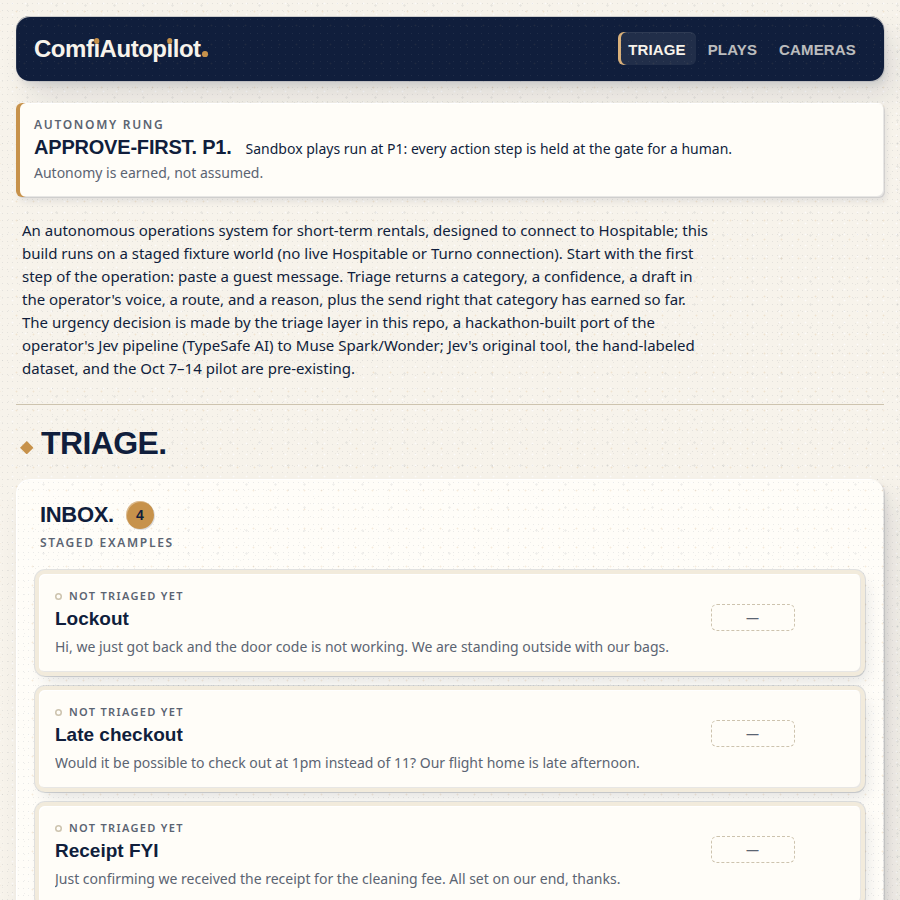
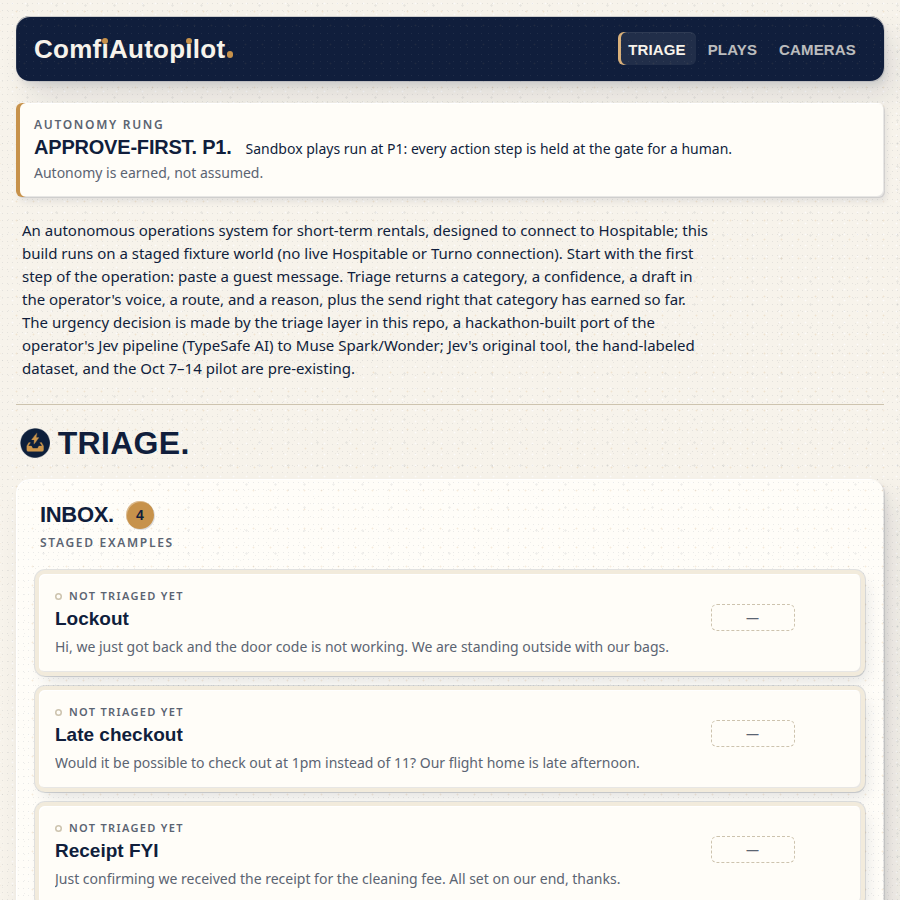
design: typography swap — Big Shoulders Display + IBM Plex Sans
Gus's pick after the ChatGPT pairing round and four 8-font sheets:
Pairing 1. Gabarito + Instrument Sans retired as too plain. Display
tracking loosened (-.02em to .01em) for the condensed face, section
titles and confidence numerals to 900, wordmark up 2px. Dotless-i
wordmark verified live in Big Shoulders. 285 tests passing.

Changed region(s): [[0.0, 0.4667, 0.2178, 0.5289], [0.0311, 0.0311, 0.2489, 0.0622]]

diff --git a/sandbox/index.html b/sandbox/index.html
@@ -6,12 +6,12 @@
 <link rel="preconnect" href="https://fonts.gstatic.com" crossorigin>
 <!-- Loaded without blocking render: if the font CDN is unreachable, the fallback stacks carry the layout. -->
 <link rel="stylesheet" media="print" onload="this.media='all'"
-      href="https://fonts.googleapis.com/css2?family=Gabarito:wght@500;600;700;800&amp;family=Instrument+Sans:wght@400;500;600;700&amp;display=swap">
+      href="https://fonts.googleapis.com/css2?family=Big+Shoulders+Display:wght@500;600;700;800;900&amp;family=IBM+Plex+Sans:wght@400;500;600;700&amp;display=swap">
 <style>
   /* ---- tokens (design/spec-v2.md, over design/spec.md) ------------ */
   :root {
-    --font-display: "Gabarito", "Arial", sans-serif;
-    --font-text: "Instrument Sans", system-ui, sans-serif;
+    --font-display: "Big Shoulders Display", "Arial Narrow", sans-serif;
+    --font-text: "IBM Plex Sans", system-ui, sans-serif;
     --fs-h1: 40px; --fs-sec: 40px; --fs-h2: 24px; --fs-h3: 20px;
     --fs-body: 16px; --lh-body: 24px; --fs-small: 14px; --fs-caption: 12px;
 
@@ -111,7 +111,7 @@
           box-shadow: inset 1px 1px 0 rgba(247,243,235,.10), inset -1px -1px 0 rgba(0,0,0,.25), var(--pressed); }
   .rail :focus-visible { outline-color: var(--cream); }
   .rail-top { display: grid; gap: 40px; }
-  .wordmark { padding: 0 10px; font: 800 24px/1 var(--font-display); letter-spacing: -.02em; white-space: nowrap; }
+  .wordmark { padding: 0 10px; font: 800 26px/1 var(--font-display); letter-spacing: .01em; white-space: nowrap; }
   .wordmark .dot { display: inline-block; width: .24em; height: .24em; margin-left: .05em;
                    border-radius: var(--r-round); background: var(--amber); }
   /* wordmark lockup: dotless i stems with amber tittles (Gus, Oct 28) */
@@ -122,7 +122,7 @@
   .wm .dot { display: inline-block; width: .24em; height: .24em; margin-left: .05em;
              border-radius: var(--r-round); background: var(--amber); }
   .masthead-mark { font-family: var(--font-display); font-weight: 800; line-height: 1;
-                   letter-spacing: -.02em; color: var(--ink); }
+                   letter-spacing: .01em; color: var(--ink); }
   .railnav { display: grid; gap: 6px; margin: 0; padding: 0; list-style: none; }
   .railnav a { display: flex; align-items: baseline; gap: 12px; padding: 13px 12px 11px; border-radius: var(--r-sm);
                color: var(--cream); text-decoration: none; opacity: .74;
@@ -156,7 +156,7 @@
   .triage, .plays, .cams { display: grid; gap: 20px; min-width: 0; }
   .sec-head { display: flex; flex-wrap: wrap; align-items: baseline; justify-content: space-between;
               gap: 6px 24px; padding: 0 4px; }
-  .sec-title { font: 800 var(--fs-sec)/1 var(--font-display); letter-spacing: -.02em; }
+  .sec-title { font: 900 var(--fs-sec)/1 var(--font-display); letter-spacing: .01em; }
   .sec-s { width: 30px; height: 30px; margin-right: .24em; vertical-align: -4px; }
   .sec-deck { margin: 0; color: var(--muted); font: 600 var(--fs-caption)/16px var(--font-text);
               letter-spacing: .14em; text-transform: uppercase; }
@@ -214,7 +214,7 @@
               padding: 22px 26px; border-radius: var(--r-sm); color: var(--cream);
               background-color: var(--navy); background-image: var(--grain-light); background-size: var(--grain-light-size);
               box-shadow: inset 1px 1px 0 rgba(247,243,235,.12), inset -1px -1px 0 rgba(0,0,0,.3), var(--pressed); }
-  #cat { font-size: 46px; line-height: 1; letter-spacing: -.02em; text-transform: uppercase; }
+  #cat { font-size: 50px; line-height: 1; letter-spacing: .01em; text-transform: uppercase; }
   #cat .cat-word { display: inline-block; padding: 12px 20px 9px; border-radius: var(--r-sm);
                    box-shadow: inset 0 0 0 2px var(--cream); }
   #cat .cat-word::after { content: "."; }
@@ -229,7 +229,7 @@
   #conf { margin: 0 0 12px; }
   .conf-cap { display: block; font: 600 var(--fs-caption)/16px var(--font-text); letter-spacing: .14em;
               text-transform: uppercase; opacity: .85; }
-  .conf-num { display: block; margin-top: 4px; font: 800 46px/1 var(--font-display); letter-spacing: -.02em; color: var(--amber); }
+  .conf-num { display: block; margin-top: 4px; font: 900 50px/1 var(--font-display); letter-spacing: .01em; color: var(--amber); }
   .bar { height: 8px; border-radius: var(--r-sm); background: rgba(247,243,235,.16); overflow: hidden;
          box-shadow: inset 1px 1px 2px rgba(0,0,0,.35); }
   .fill { height: 8px; border-radius: var(--r-sm); background: var(--amber); }
